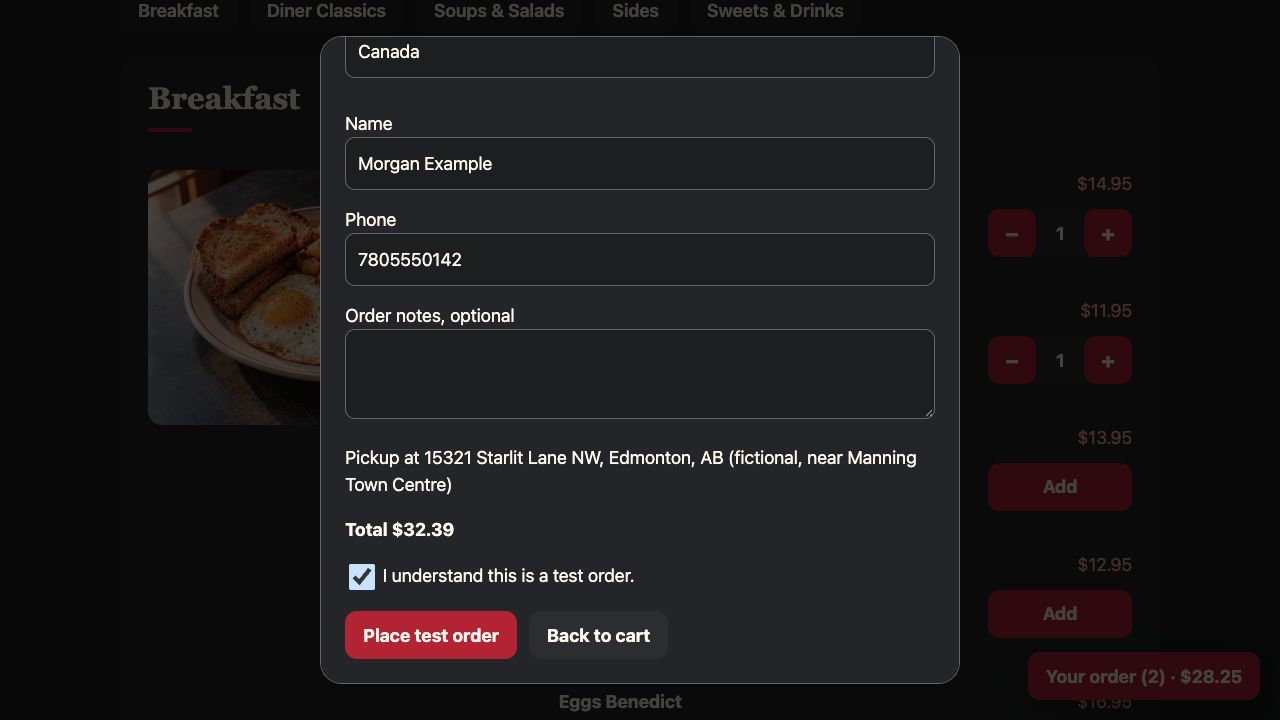
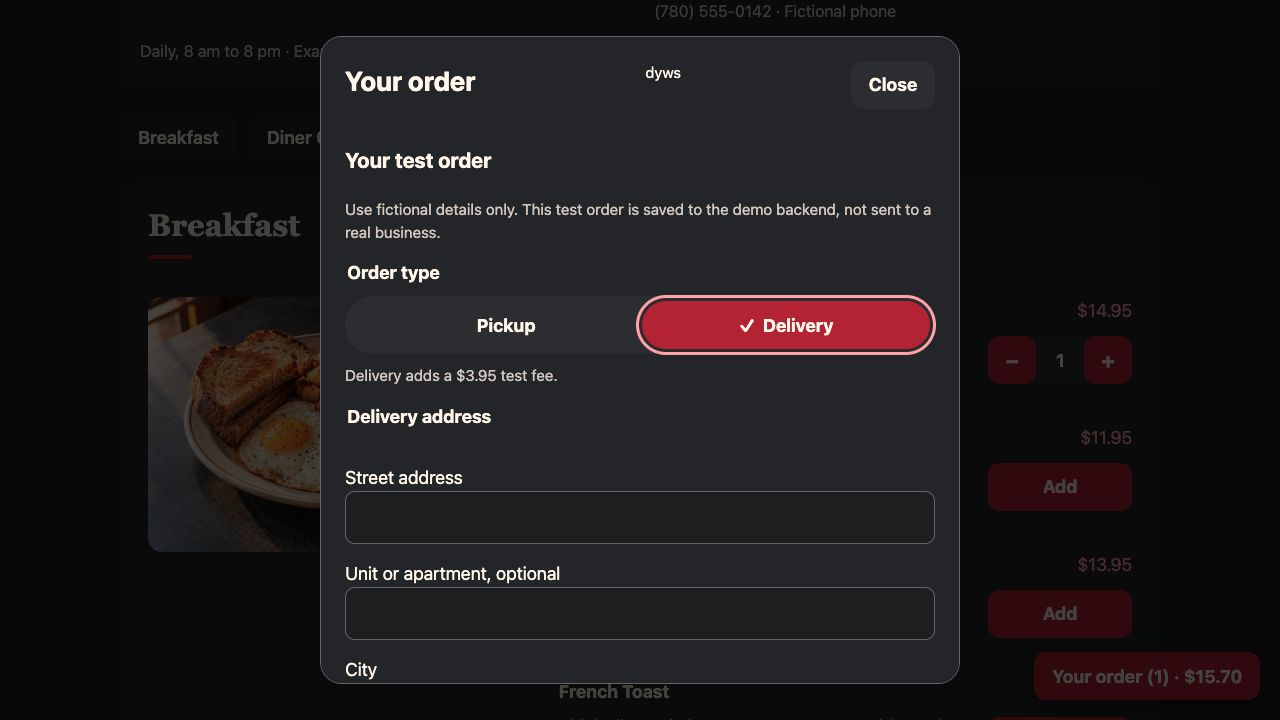
Refresh screenshot gallery for delivery runs and polished order interfaces
Replace Orders, reporting, plugin, driver, checkout and tracking captures using isolated fictional fixtures. Add ordered delivery run, expanded order detail and customer queue examples. Document screenshot provenance and update README captions without changing the release version.

The matching public project gallery is refreshed with accurate delivery run capabilities and public demo limitations. No hosted customer records or credentials appear in the images.

diff --git a/docs/screenshots/README.md b/docs/screenshots/README.md
@@ -1,20 +1,23 @@
 # Screenshot examples
 
-Captured October 23, 2026 for dyws 0.10.0 using the real PHP pages and browser modules in a separate local installation. These are browser screenshots, not design mockups. JPEG originals are committed here and embedded in the root README.
+Captured October 23, 2026 using the real PHP pages and browser modules in separate local installations. The refreshed Orders, delivery run, reporting, plugin, driver, checkout and tracking images show the development build after the public delivery run rollout, checkout pill selector and tracking and order detail styling refresh. Other images remain from the 0.10.0 release fixture. These are browser screenshots, not design mockups. JPEG originals are committed here and embedded in the root README.
 
-The disposable fixture contains eighteen seeded orders plus one order placed through checkout. Customers use names such as Morgan Example, Alex Example, Jordan Demo and Taylor Sample, the fictional phone 7805550142 and the fictional address 123 Example Avenue NW, Edmonton. Earlier fixture orders were dated across two weeks to make reporting charts useful. Figures are illustrative test ledger amounts.
+The refreshed disposable fixture contains twenty four seeded orders, including two delivery runs with two stops each, plus one order placed through the pill selector checkout. Screens were captured at different stages of these example flows. The earlier fixture contained eighteen seeded orders and one checkout. Customers use names such as Morgan Example, Alex Example, Jordan Demo and Taylor Sample, the fictional phone 7805550142 and fictional addresses on Example Avenue NW, Edmonton. Earlier fixture orders were dated across two weeks to make reporting charts useful. Figures are illustrative test ledger amounts.
 
 | File | Example |
 | --- | --- |
 | customer-storefront.jpg | Diner host page and hero |
 | customer-menu.jpg | Breakfast category with product controls |
 | customer-cart.jpg | Quantity controls, removal buttons and totals |
-| customer-checkout.jpg | Contact fields, totals and test acknowledgement at the end of delivery checkout |
-| customer-tracking.jpg | Private order page immediately after checkout |
-| customer-complete.jpg | The same order after driver completion, updated automatically |
+| customer-checkout.jpg | Pickup and Delivery pill selector and delivery address fields |
+| customer-tracking.jpg | Order received, arrival card and connected progress timeline |
+| customer-delivery-run.jpg | Connected progress timeline and one stop before the customer |
+| customer-complete.jpg | A completed run stop, with all milestones complete |
 | driver-login.jpg | Driver sign in with an empty password |
-| driver-console.jpg | Assigned delivery ready for pickup |
-| admin-orders.jpg | Active orders, search and filters |
+| driver-console.jpg | Active two stop delivery run and next stop action |
+| admin-orders.jpg | Active orders with coloured status, fulfillment and payment badges |
+| admin-order-detail.jpg | Grouped customer information, prices, status badges and actions |
+| admin-delivery-runs.jpg | Ordered stops and run status, cropped to the run detail |
 | admin-reports.jpg | Full dashboard with fictional reporting history |
 | admin-catalog.jpg | Category and item editor |
 | admin-plugins.jpg | Bundled plugin controls |
@@ -22,3 +25,5 @@ The disposable fixture contains eighteen seeded orders plus one order placed thr
 No live orders or personal customer details were used. No credentials, authentication cookies, API keys or tracking tokens are visible or stored in this folder. The example order reference alone does not grant tracking access. Maps and Stripe were left unconfigured. The test delivery used the public Manning Town Centre area as a simulated origin and did not access device GPS. No real charge, refund or delivery occurred.
 
 To refresh these images, create a separate CLI demo fixture, use fictional customer records, capture the documented pages, review each image for secrets and readability, and replace the matching JPEG. Keep fixture configuration and databases outside Git. Do not use the hosted restaurant's records to recreate the gallery.
+
+The October 23 gallery refresh was published to `/dyws/`, and the six changed presentation modules were published to both `/diner/` and `/diner-demo/`. Configuration, accounts, catalog, order data and demo restrictions were not deployed or replaced. Both installs passed HTTP smoke checks and asset digest checks; the public checkout retained its fictional fields and disabled device GPS policy.

diff --git a/README.md b/README.md
@@ -115,13 +115,21 @@ Native PHP `#[Provides(...)]` attributes describe plugin features. Page `#[Requi
 
 ## Screenshot examples
 
-All images below were captured from this release’s local demo on October 23, 2026. Names, phone numbers and addresses are fictional. No live customer records, real credentials, Maps keys or tracking tokens appear. The Google Maps API is unconfigured in this screenshot fixture, so its screens do not demonstrate a live route estimate.
+These browser screenshots were captured from isolated local fixtures on October 23, 2026. The Orders, delivery run, driver, reporting, plugin, checkout and tracking images show the current development build. Names, phone numbers and addresses are fictional. No live customer records, real credentials, Maps keys or tracking tokens appear. The Google Maps API is unconfigured in this screenshot fixture, so its screens do not demonstrate a live route estimate.
 
 ### Business owner
 
-**Orders:** active work appears first, with filters and searchable rows.
+**Orders:** active work appears first, with searchable rows and distinct status, fulfillment and payment badges.
 
-![Admin Orders with fictional orders](docs/screenshots/admin-orders.jpg)
+![Admin Orders with coloured status, fulfillment and payment badges](docs/screenshots/admin-orders.jpg)
+
+**Delivery runs:** one driver follows an ordered list of stops, with each customer seeing only their own delivery progress.
+
+![Admin delivery run with two fictional stops](docs/screenshots/admin-delivery-runs.jpg)
+
+**Order details:** grouped customer information, item prices and clearly labelled actions.
+
+![Expanded order with customer details and status badges](docs/screenshots/admin-order-detail.jpg)
 
 <details>
 <summary>Reports, Catalog and Plugins examples</summary>
@@ -146,9 +154,9 @@ All images below were captured from this release’s local demo on October 23, 2
 
 ![Driver login example with an empty password](docs/screenshots/driver-login.jpg)
 
-**Assigned delivery:** customer details and the action to start the test delivery.
+**Delivery run:** ordered stops, payment and delivery badges, and a clear action to complete the next stop.
 
-![Driver console with a fictional assigned delivery](docs/screenshots/driver-console.jpg)
+![Driver console with a two stop delivery run](docs/screenshots/driver-console.jpg)
 
 ### Customer ordering process
 
@@ -160,13 +168,15 @@ All images below were captured from this release’s local demo on October 23, 2
 
 ![Customer cart with quantity and removal controls](docs/screenshots/customer-cart.jpg)
 
-3. Choose pickup or delivery and provide contact and address details. This example shows the final checkout section with the test acknowledgement.
+3. Choose Pickup or Delivery with the pill selector, then provide contact and address details. The delivery fee is shown with the choice.
 
 ![Customer checkout with fictional contact information](docs/screenshots/customer-checkout.jpg)
 
-4. Place the test order and follow its private status page.
+4. Follow the connected progress timeline. Later stops show how many deliveries are ahead.
 
-![Customer order received and progress timeline](docs/screenshots/customer-tracking.jpg)
+![Customer order received with an arrival card and connected timeline](docs/screenshots/customer-tracking.jpg)
+
+![Customer delivery run tracking with one stop ahead](docs/screenshots/customer-delivery-run.jpg)
 
 5. When the assigned driver completes delivery, the same page confirms completion and removes active location tracking.
 

diff --git a/CHANGELOG.md b/CHANGELOG.md
@@ -2,6 +2,11 @@
 
 ## Unreleased
 
+- Refine customer tracking and expanded order details with warm theme aware accents, stronger typography, grouped information and rounded controls.
+
+- Replace the checkout Order type dropdown with an accessible Pickup and Delivery pill selector, preserving address validation and fee calculation.
+- Refresh the screenshot gallery with delivery runs, semantic status badges and connected customer tracking.
+
 - Allow public demo delivery runs through precise lockdown endpoints, retain simulated GPS and critical setting restrictions, and clean up expiring run stops and bounded history.
 
 - Add manually ordered delivery runs, atomic pickup, one active run per driver, per stop completion, shared GPS and private stops ahead tracking. Validated first on the private diner installation, then enabled on the public demo with lockdown preserved.
